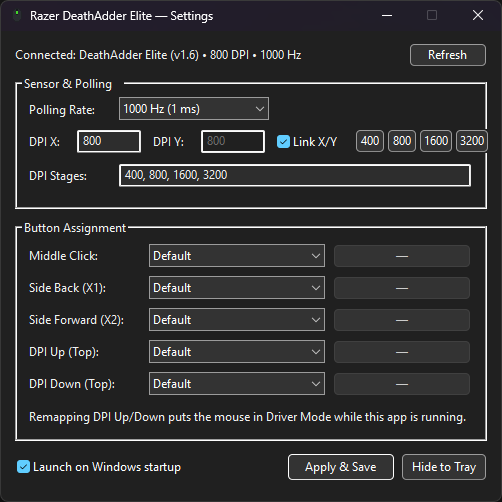
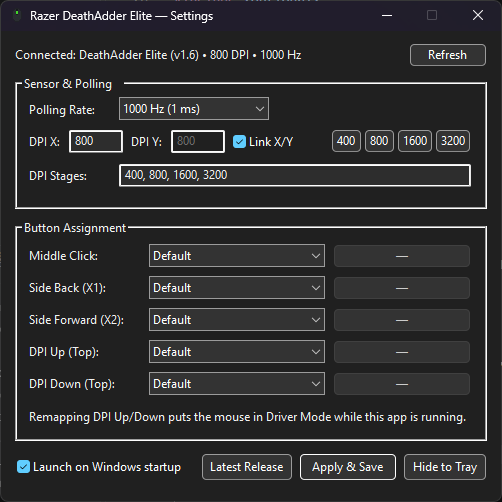
add latest releases button, fix dpi button position

Changed region(s): [[0.239, 0.239, 0.9861, 0.3287], [0.3884, 0.8964, 0.9562, 0.9562], [0.1195, 0.2689, 0.2092, 0.2988]]

diff --git a/include/da_elite/config_window.hpp b/include/da_elite/config_window.hpp
@@ -7,6 +7,7 @@
 
 #include <commctrl.h>
 #include <dwmapi.h>
+#include <shellapi.h>
 #include <uxtheme.h>
 #include <wil/resource.h>
 
@@ -243,6 +244,7 @@ private:
         IdStartup = 1011,
         IdApply = 1012,
         IdClose = 1013,
+        IdReleases = 1014,
         IdBtnActionBase = 1100, // +0..4
         IdBtnKeyBase = 1200,    // +0..4
     };
@@ -328,16 +330,16 @@ private:
         SendMessageW(cmb_poll_, CB_ADDSTRING, 0, reinterpret_cast<LPARAM>(L"500 Hz (2 ms)"));
         SendMessageW(cmb_poll_, CB_ADDSTRING, 0, reinterpret_cast<LPARAM>(L"125 Hz (8 ms)"));
 
-        make_ctrl(WC_STATICW, L"DPI X:", SS_LEFT | SS_CENTERIMAGE, 0, 28, 100, 44, 22, 0);
-        edit_dpi_x_ = make_ctrl(WC_EDITW, L"800", ES_NUMBER | ES_AUTOHSCROLL | WS_TABSTOP, WS_EX_CLIENTEDGE, 76, 99, 64, 23, IdDpiX);
-        make_ctrl(WC_STATICW, L"DPI Y:", SS_LEFT | SS_CENTERIMAGE, 0, 152, 100, 44, 22, 0);
-        edit_dpi_y_ = make_ctrl(WC_EDITW, L"800", ES_NUMBER | ES_AUTOHSCROLL | WS_TABSTOP, WS_EX_CLIENTEDGE, 200, 99, 64, 23, IdDpiY);
-        chk_link_xy_ = make_ctrl(WC_BUTTONW, L"Link X/Y", BS_AUTOCHECKBOX | WS_TABSTOP, 0, 276, 100, 74, 22, IdLinkXy);
+        make_ctrl(WC_STATICW, L"DPI X:", SS_LEFT | SS_CENTERIMAGE, 0, 28, 100, 38, 22, 0);
+        edit_dpi_x_ = make_ctrl(WC_EDITW, L"800", ES_NUMBER | ES_AUTOHSCROLL | WS_TABSTOP, WS_EX_CLIENTEDGE, 68, 99, 54, 23, IdDpiX);
+        make_ctrl(WC_STATICW, L"DPI Y:", SS_LEFT | SS_CENTERIMAGE, 0, 130, 100, 38, 22, 0);
+        edit_dpi_y_ = make_ctrl(WC_EDITW, L"800", ES_NUMBER | ES_AUTOHSCROLL | WS_TABSTOP, WS_EX_CLIENTEDGE, 170, 99, 54, 23, IdDpiY);
+        chk_link_xy_ = make_ctrl(WC_BUTTONW, L"Link X/Y", BS_AUTOCHECKBOX | WS_TABSTOP, 0, 232, 100, 74, 22, IdLinkXy);
 
-        make_ctrl(WC_BUTTONW, L"400", BS_PUSHBUTTON, 0, 354, 98, 30, 24, IdPreset400);
-        make_ctrl(WC_BUTTONW, L"800", BS_PUSHBUTTON, 0, 386, 98, 30, 24, IdPreset800);
-        make_ctrl(WC_BUTTONW, L"1600", BS_PUSHBUTTON, 0, 418, 98, 34, 24, IdPreset1600);
-        make_ctrl(WC_BUTTONW, L"3200", BS_PUSHBUTTON, 0, 454, 98, 34, 24, IdPreset3200);
+        make_ctrl(WC_BUTTONW, L"400", BS_PUSHBUTTON, 0, 330, 98, 31, 24, IdPreset400);
+        make_ctrl(WC_BUTTONW, L"800", BS_PUSHBUTTON, 0, 363, 98, 31, 24, IdPreset800);
+        make_ctrl(WC_BUTTONW, L"1600", BS_PUSHBUTTON, 0, 396, 98, 36, 24, IdPreset1600);
+        make_ctrl(WC_BUTTONW, L"3200", BS_PUSHBUTTON, 0, 434, 98, 36, 24, IdPreset3200);
 
         make_ctrl(WC_STATICW, L"DPI Stages:", SS_LEFT | SS_CENTERIMAGE, 0, 28, 134, 86, 22, 0);
         edit_stages_ = make_ctrl(WC_EDITW, L"400, 800, 1600, 3200", ES_AUTOHSCROLL | WS_TABSTOP, WS_EX_CLIENTEDGE, 118, 133, 352, 23, IdStages);
@@ -369,9 +371,10 @@ private:
                   SS_LEFT, 0, 28, 378, 444, 24, 0);
 
         // Footer
-        chk_startup_ = make_ctrl(WC_BUTTONW, L"Launch on Windows startup", BS_AUTOCHECKBOX | WS_TABSTOP, 0, 16, 424, 220, 24, IdStartup);
-        make_ctrl(WC_BUTTONW, L"Apply && Save", BS_DEFPUSHBUTTON | WS_TABSTOP, 0, 286, 422, 108, 28, IdApply);
-        make_ctrl(WC_BUTTONW, L"Hide to Tray", BS_PUSHBUTTON | WS_TABSTOP, 0, 400, 422, 86, 28, IdClose);
+        chk_startup_ = make_ctrl(WC_BUTTONW, L"Launch on Windows startup", BS_AUTOCHECKBOX | WS_TABSTOP, 0, 16, 424, 180, 24, IdStartup);
+        make_ctrl(WC_BUTTONW, L"Latest Release", BS_PUSHBUTTON | WS_TABSTOP, 0, 200, 422, 92, 28, IdReleases);
+        make_ctrl(WC_BUTTONW, L"Apply && Save", BS_DEFPUSHBUTTON | WS_TABSTOP, 0, 298, 422, 98, 28, IdApply);
+        make_ctrl(WC_BUTTONW, L"Hide to Tray", BS_PUSHBUTTON | WS_TABSTOP, 0, 402, 422, 84, 28, IdClose);
 
         sync_controls_from_draft();
         refresh_status();
@@ -566,6 +569,13 @@ private:
                         on_apply_(draft_, status);
                         if (!status.empty()) SetWindowTextW(lbl_status_, status.c_str());
                     }
+                    return 0;
+                }
+                if (id == IdReleases) {
+                    ShellExecuteW(
+                        hwnd, L"open",
+                        L"https://github.com/usyless/openrazer-win32-deathadder-elite/releases",
+                        nullptr, nullptr, SW_SHOWNORMAL);
                     return 0;
                 }
                 if (id == IdClose) {
